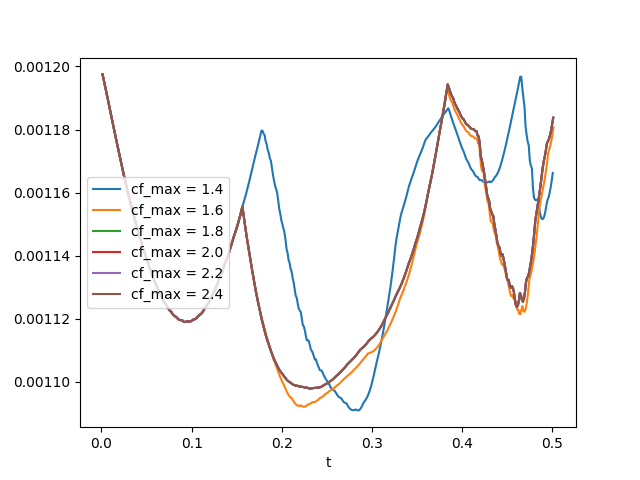
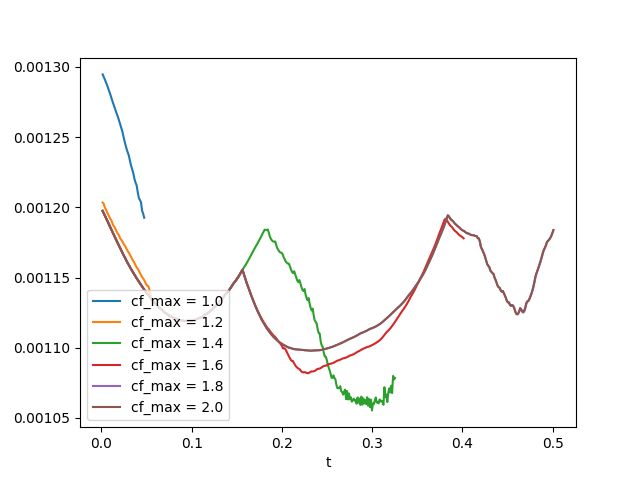
alpha --> alphaSq in flux

diff --git a/mhd-boris.py b/mhd-boris.py
@@ -272,18 +272,19 @@ def getFlux(rho_L, rho_R, vx_L, vx_R, vy_L, vy_R, P_L, P_R, Bx_L, Bx_R, By_L, By
   c0_R = np.sqrt( gamma*(P_R-0.5*(Bx_R**2+By_R**2))/rho_R )
   ca_L = np.sqrt( (Bx_L**2+By_L**2)/rho_L )
   ca_R = np.sqrt( (Bx_R**2+By_R**2)/rho_R )
-  cf_L = np.sqrt( 0.5*(c0_L**2+ca_L**2) + 0.5*np.sqrt((c0_L**2+ca_L**2)**2) )
-  cf_R = np.sqrt( 0.5*(c0_R**2+ca_R**2) + 0.5*np.sqrt((c0_R**2+ca_R**2)**2) )
+  cf_L = np.sqrt( c0_L**2+ca_L**2 )
+  cf_R = np.sqrt( c0_R**2+ca_R**2 )
   # boris
-  alpha_L = np.minimum(1.0, max_cf / np.sqrt(c0_L**2+ca_L**2))
-  alpha_R = np.minimum(1.0, max_cf / np.sqrt(c0_R**2+ca_R**2))
+  alpha_L = np.minimum(1.0, max_cf / cf_L)
+  alpha_R = np.minimum(1.0, max_cf / cf_R)
   alpha = np.minimum(alpha_L, alpha_R)
-  flux_Momx *= alpha
-  flux_Momy *= alpha
+  alphaSq = alpha ** 2
+  flux_Momx *= alphaSq
+  flux_Momy *= alphaSq
   cf_L *= alpha_L
   cf_R *= alpha_R
 
-  C_L = cf_L+ np.abs(vx_L)
+  C_L = cf_L + np.abs(vx_L)
   C_R = cf_R + np.abs(vx_R)
   C = np.maximum( C_L, C_R )
   

diff --git a/analysis.py b/analysis.py
@@ -7,7 +7,7 @@ import matplotlib.pyplot as plt
 
 def main():
 
-  max_cfs = [1.4, 1.6, 1.8, 2.0, 2.2, 2.4]
+  max_cfs = [1.0, 1.2, 1.4, 1.6, 1.8, 2.0]
 
   rho = {}
   P_B = {}
@@ -41,7 +41,7 @@ def main():
   plt.figure()
   for max_cf in max_cfs:
     plt.plot(np.cumsum(dt[max_cf]), dt[max_cf], label='cf_max = '+str(max_cf))
-  plt.legend(loc='center left')
+  plt.legend(loc='lower left')
   plt.xlabel('t')
   plt.savefig('analysis_dt.png')
   plt.show()

diff --git a/README.md b/README.md
@@ -13,12 +13,12 @@ with the Boris Integrator
 Run the simulations with:
 
 ```python
-python mhd-boris.py 2.4
-python mhd-boris.py 2.2
 python mhd-boris.py 2.0
 python mhd-boris.py 1.8
 python mhd-boris.py 1.6
 python mhd-boris.py 1.4
+python mhd-boris.py 1.2
+python mhd-boris.py 1.0
 ```
 
 And then analyze with:
